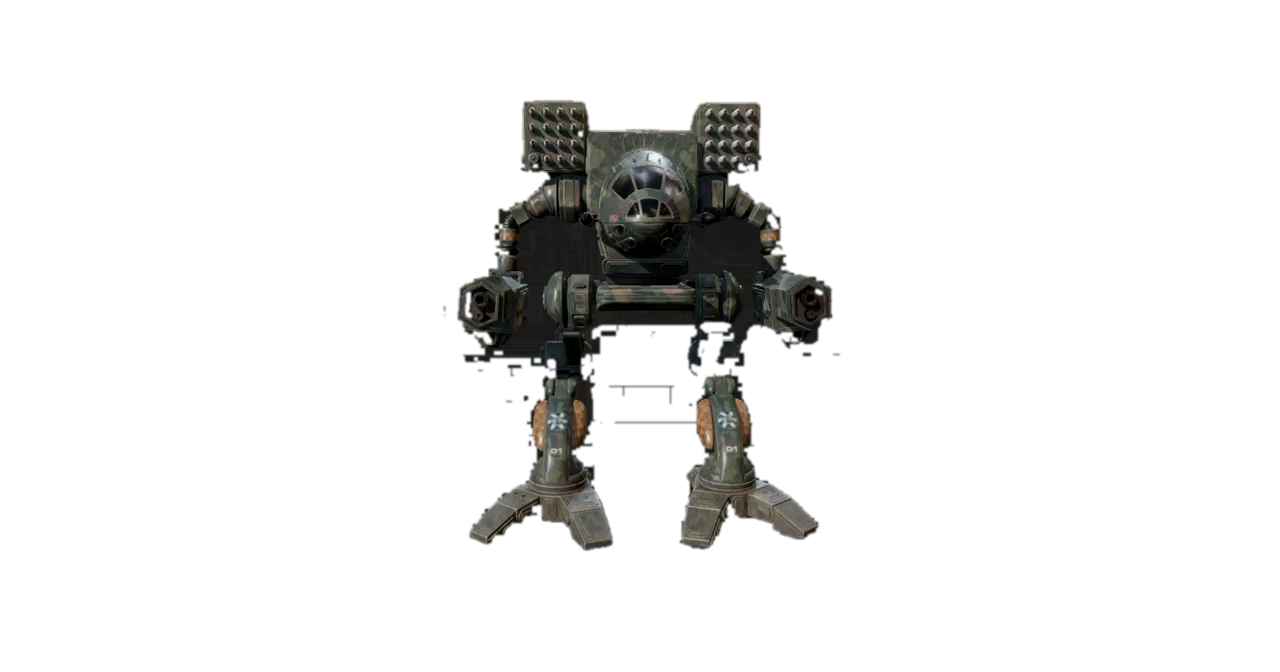
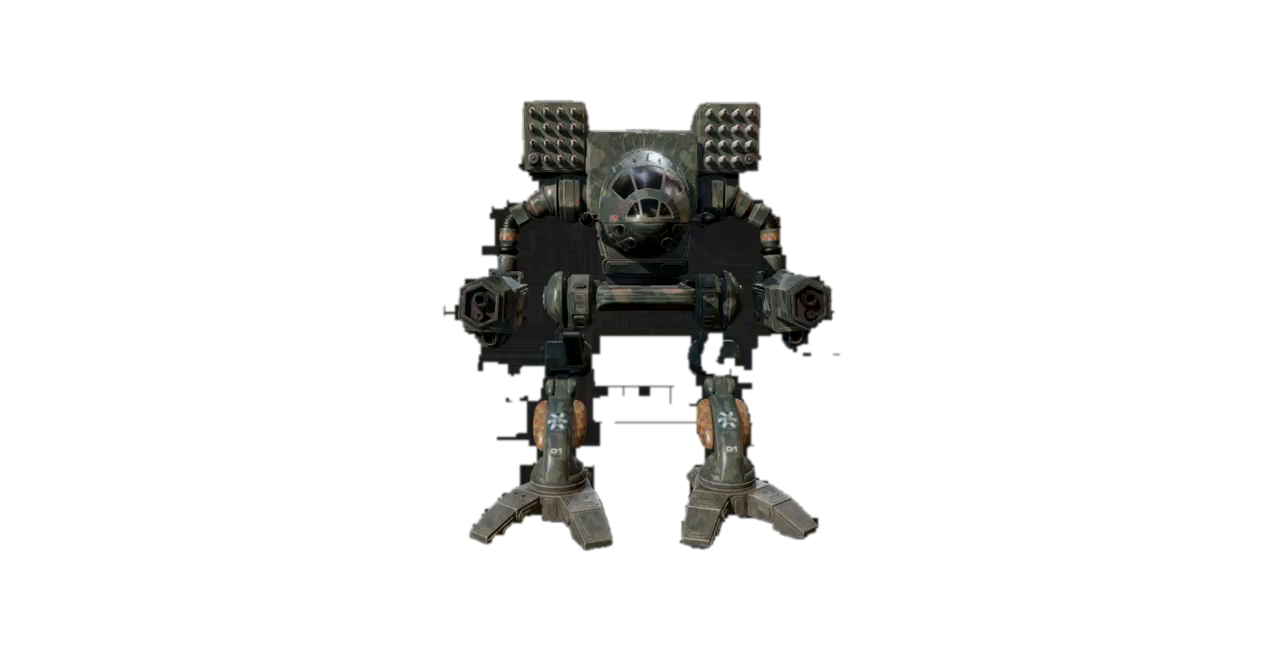
Phase 1 v4: Fix leg holes with central column protection
Human rejected v3 for holes in upper legs/thighs (same class of bug as v2 torso hole).

Fix: Central body column protection (40% of mech width) spanning full vertical height.
Cavity removal restricted to left/right lateral arm bands only, never in central column.

Algorithm:
- Central column: 40% width around centroid (cockpit → torso → hips → legs) = FULLY PROTECTED
- Arm bands: left/right sides (20-100% from center) = REMOVABLE REGION
- Only remove dark + desaturated pixels in arm bands
- Central column never touched by cavity removal

Results (v4 vs v3):
- Upper legs: solid, no holes (FIXED)
- Torso: still solid (maintained from v3)
- Arm cavities: still clean (maintained from v3)
- IoU: 0.741 (was 0.750 in v3, -1.2%)
- Pixel ratio: 1.221 (was 1.164 in v3, +4.9%)

Lock params unchanged from v3:
- Crop: (442, 99) 400×453
- Scale: 0.272×
- Position: (34, 37)

All diagnostics regenerated showing solid legs + torso + clean arm gaps.

diff --git a/scripts/lock_garrison_frame.py b/scripts/lock_garrison_frame.py
@@ -91,30 +91,59 @@ def remove_background(img):
             mask_uint = np.zeros((h, w), dtype=np.uint8)
             cv2.drawContours(mask_uint, [best_contour], -1, 255, -1)
     
-    # Step 5: Clean arm cavities while protecting torso
-    # Use distance transform to identify core (torso) vs periphery (arms)
-    dist_transform = cv2.distanceTransform(mask_uint, cv2.DIST_L2, 5)
+    # Step 5: Clean arm cavities ONLY in lateral regions
+    # Protect entire central body column (cockpit → torso → hips → legs)
     
-    # Periphery: regions close to the edge (distance < 12 pixels)
-    # These are where arm gaps and blueprint artifacts appear
-    periphery = (dist_transform > 0) & (dist_transform < 12) & (mask_uint > 0)
+    hsv = cv2.cvtColor(rgb, cv2.COLOR_BGR2HSV)
     
-    # In periphery, remove very dark regions (likely blueprint/background)
-    very_dark_periphery = (gray < 25) & periphery
+    # Find mech center and bounds
+    M = cv2.moments(mask_uint)
+    if M["m00"] > 0:
+        cx = int(M["m10"] / M["m00"])
+        cy = int(M["m01"] / M["m00"])
+    else:
+        cx, cy = w // 2, h // 2
     
-    # Also remove dark + low saturation in periphery (blueprint lines)
-    dark_gray_periphery = (gray < 32) & (hsv[:, :, 1] < 35) & periphery
+    mech_pixels = mask_uint > 0
+    if np.any(mech_pixels):
+        mech_y, mech_x = np.where(mech_pixels)
+        mech_x_min, mech_x_max = mech_x.min(), mech_x.max()
+        mech_y_min, mech_y_max = mech_y.min(), mech_y.max()
+        mech_w = mech_x_max - mech_x_min
+        mech_h = mech_y_max - mech_y_min
+        
+        # Define central body column (vertical strip) - FULLY PROTECTED
+        # This includes cockpit, torso, hips, and legs
+        # Use 40% of mech width as the central column
+        y_coords, x_coords = np.ogrid[:h, :w]
+        x_from_center = np.abs(x_coords - cx)
+        central_column = x_from_center < (mech_w * 0.40)
+        
+        # Arm lateral bands: left and right sides ONLY
+        # These are where blueprint artifacts appear (between arm and body)
+        left_arm_band = (x_coords < cx - mech_w * 0.20) & (x_coords > mech_x_min)
+        right_arm_band = (x_coords > cx + mech_w * 0.20) & (x_coords < mech_x_max)
+        arm_regions = left_arm_band | right_arm_band
+        
+        # Only allow cavity removal in arm regions, NEVER in central column
+        removable_region = arm_regions & (~central_column) & (mask_uint > 0)
+    else:
+        removable_region = np.zeros((h, w), dtype=bool)
     
-    # Combine removal candidates
-    to_remove = very_dark_periphery | dark_gray_periphery
+    # Identify blueprint artifacts: dark + desaturated
+    internal_dark = (gray < 35) & removable_region
+    internal_gray = (hsv[:, :, 1] < 40) & removable_region
     
-    # Morphological opening to clean up
-    kernel_tiny = np.ones((3, 3), np.uint8)
-    to_remove_clean = cv2.morphologyEx(to_remove.astype(np.uint8) * 255,
-                                        cv2.MORPH_OPEN, kernel_tiny, iterations=1)
+    # Candidate artifacts (ONLY in removable arm regions)
+    blueprint_artifacts = internal_dark & internal_gray
     
-    # Remove these regions
-    mask_uint[to_remove_clean > 0] = 0
+    # Morphological cleanup: keep coherent cavity regions
+    kernel_cavity = np.ones((5, 5), np.uint8)
+    dark_cavities = cv2.morphologyEx(blueprint_artifacts.astype(np.uint8) * 255, 
+                                      cv2.MORPH_OPEN, kernel_cavity, iterations=1)
+    
+    # Remove cavities (only in arm bands, central column untouched)
+    mask_uint[dark_cavities > 0] = 0
     
     # Step 6: Reduce fringing
     kernel_erode = np.ones((2, 2), np.uint8)
